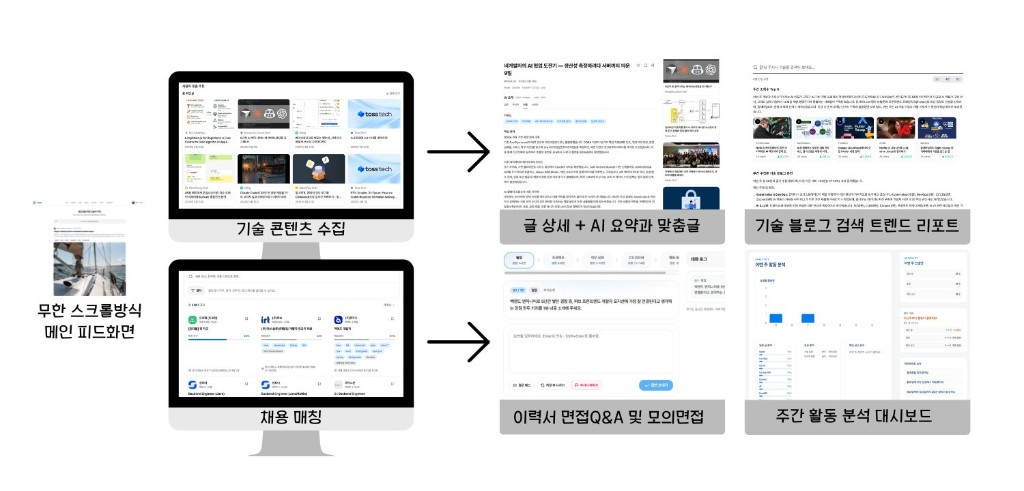
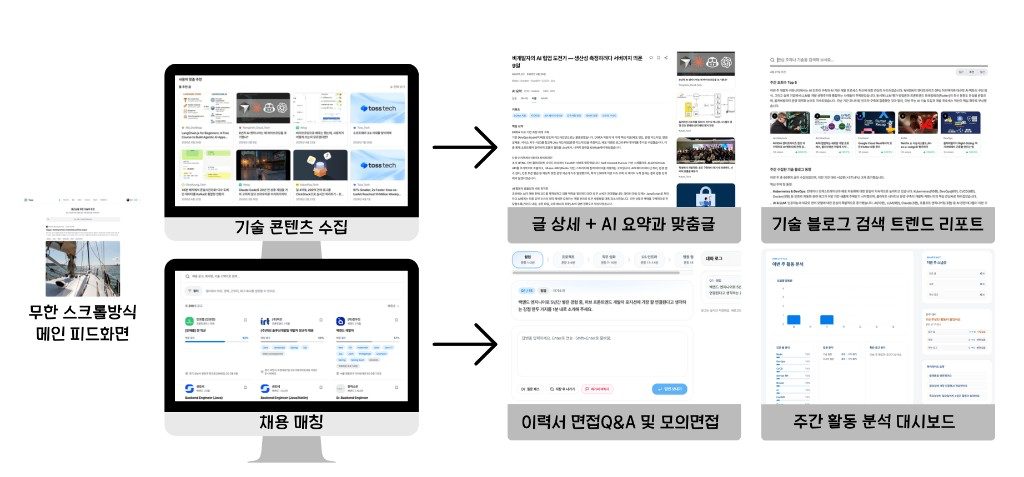
Restore service preview showcase image above demo video

diff --git a/profile/README.md b/profile/README.md
@@ -22,6 +22,9 @@
 ## Service Preview
 
 <div align="center">
+  <img src="./assets/showcase.png" width="100%" alt="Trace Service Preview" />
+  <br />
+  <br />
   <video src="./assets/trace-preview.mp4" controls width="80%"></video>
 </div>
 
